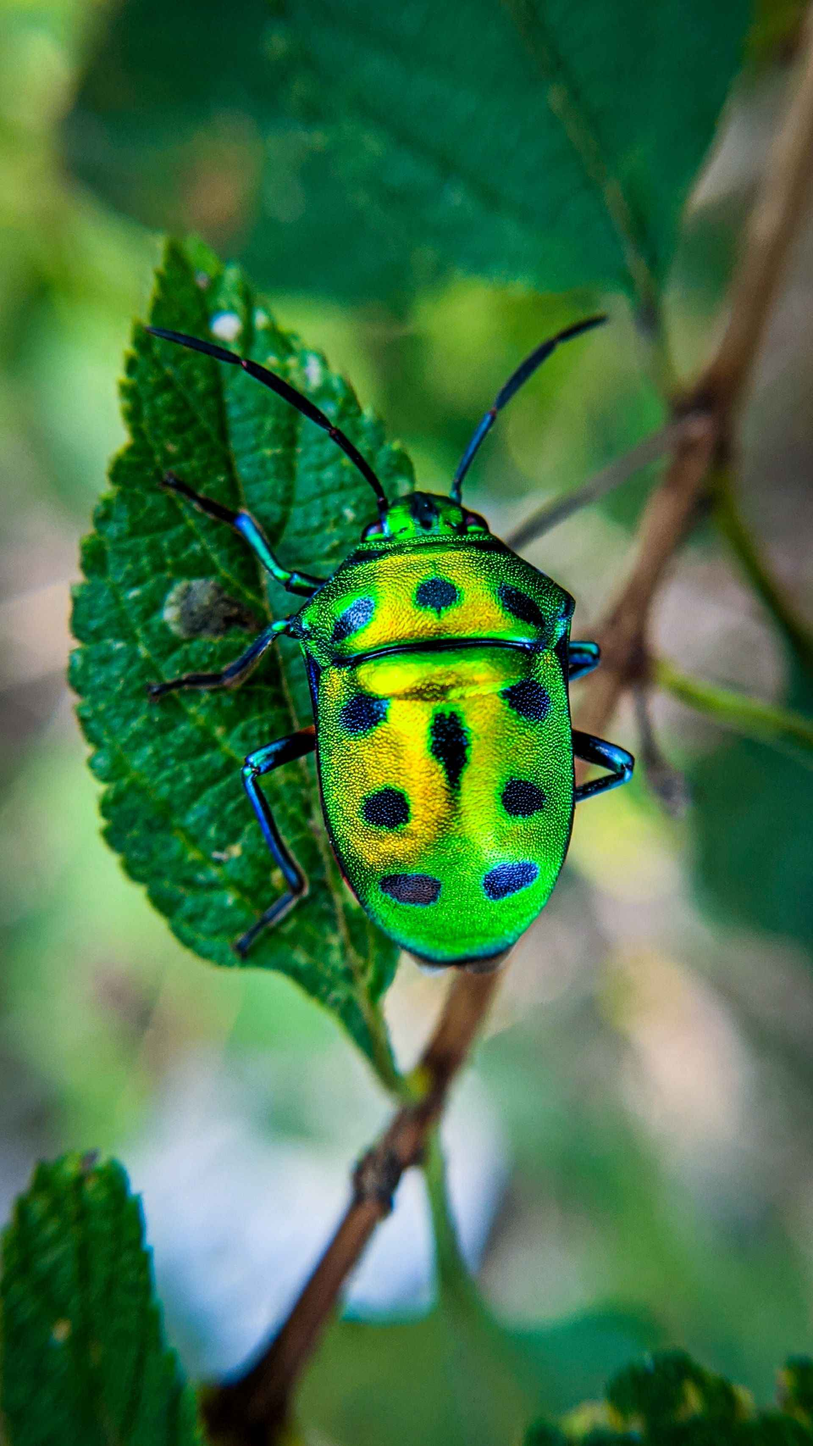
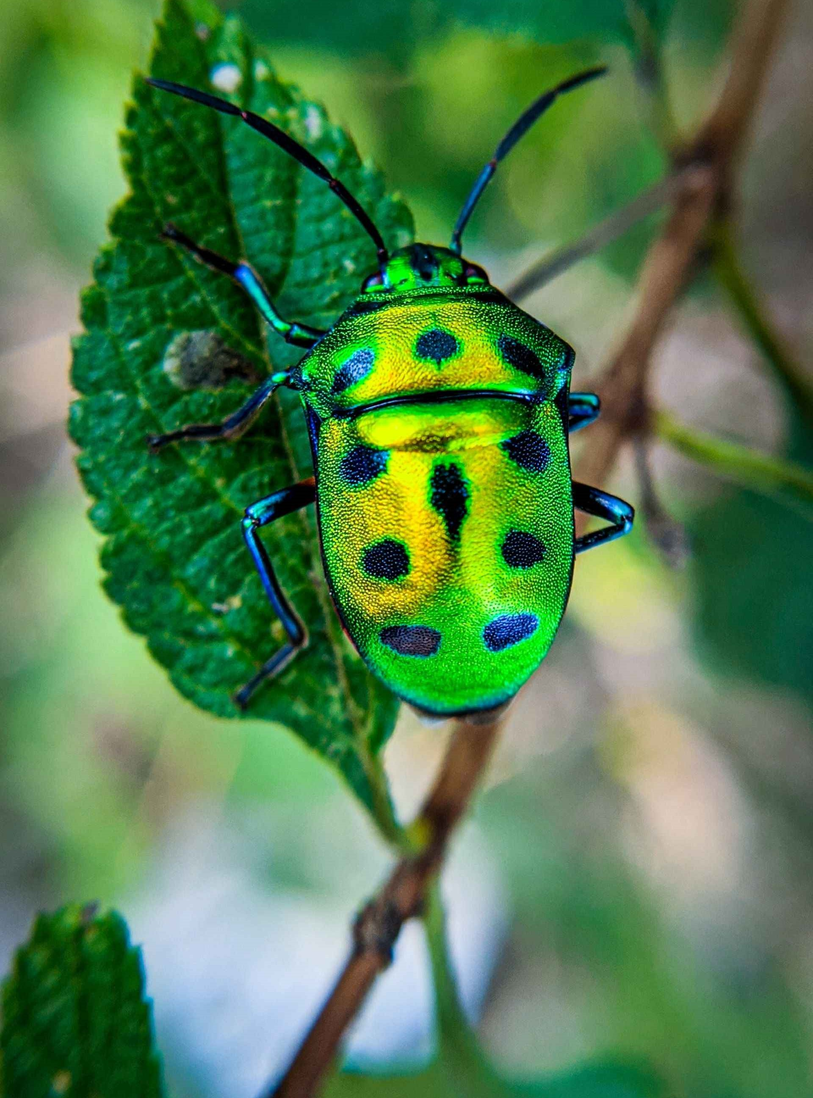
optimizing file size

diff --git a/all-pages/page5.html b/all-pages/page5.html
@@ -131,7 +131,7 @@
                     <div class="row">
                     <div class="column">
                     <div class="img-container"> 
-                    <img src="images/Insekt40percent.jpg" alt="insekt">
+                    <img src="images/Insekt.jpg" alt="insekt">
                     <p><cite>photo: Faris Mohammed</cite></p>
                     <!--https://unsplash.com/photos/green-and-black-bug-on-green-leaf-NRW88CJfJ-->
                 </div>    
